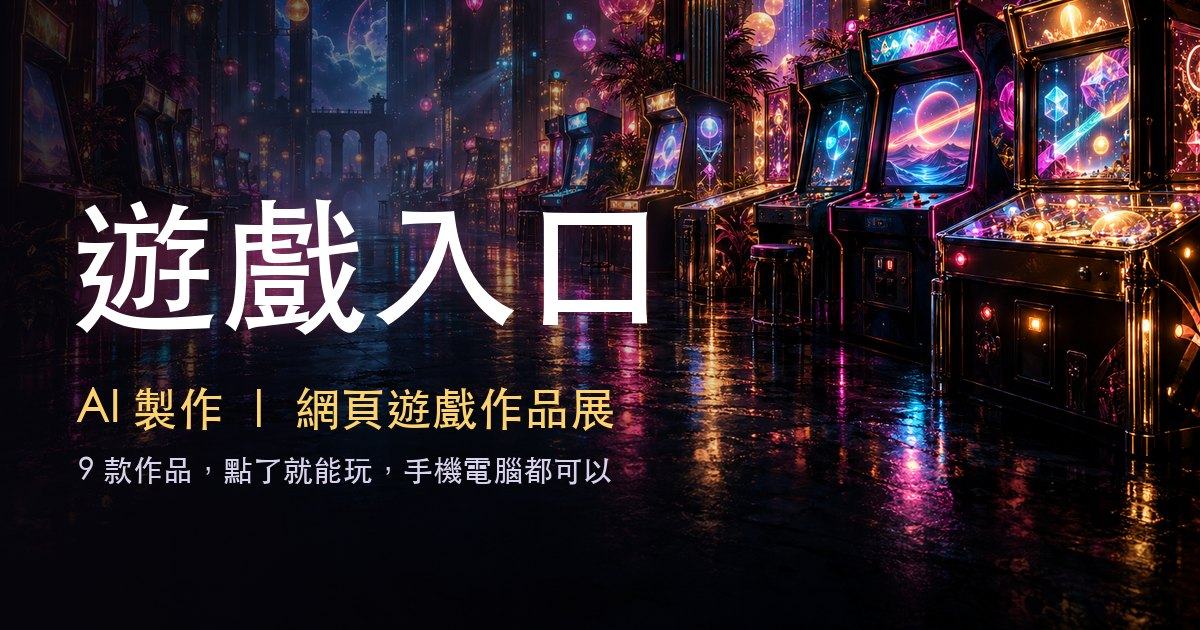
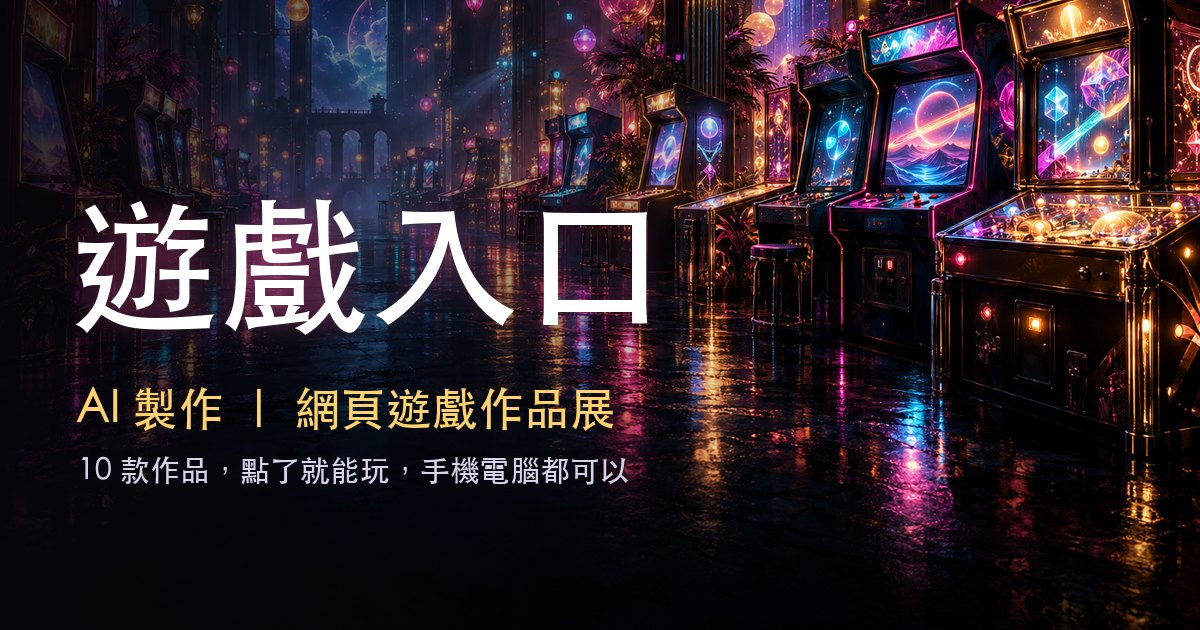
加入上班啟示錄（3D 辦公室經營）與封面

Changed region(s): [[0.0617, 0.7238, 0.5242, 0.7841]]

diff --git a/index.html b/index.html
@@ -7,7 +7,7 @@
 <meta name="description" content="跟 AI 一起做的網頁遊戲作品展：寶可夢彈珠研究所、黃泉燒肉店轉珠、紅分子亮車快打……點了就能玩，不用下載、不用登入。">
 <meta property="og:type" content="website">
 <meta property="og:title" content="遊戲入口｜AI 製作・網頁遊戲作品展">
-<meta property="og:description" content="9 款跟 AI 一起做的網頁遊戲，點了就能玩，手機電腦都可以。">
+<meta property="og:description" content="10 款跟 AI 一起做的網頁遊戲，點了就能玩，手機電腦都可以。">
 <meta property="og:image" content="https://pokemonida99.github.io/game/img/og.jpg">
 <meta property="og:url" content="https://pokemonida99.github.io/game/">
 <meta name="twitter:card" content="summary_large_image">
@@ -230,7 +230,7 @@ footer a{color:var(--dim)}footer a:hover{color:#fff}
       <p class="sub"><b>AI 製作</b>・網頁遊戲作品展</p>
       <p class="lead">這裡每一款遊戲的程式、美術、配樂和演出影片，都是跟 AI 一起做出來的。點了就能玩，不用下載、不用登入，手機電腦都可以。</p>
       <div class="stats">
-        <div class="stat"><b id="nGames">9</b><span>款作品</span></div>
+        <div class="stat"><b id="nGames">10</b><span>款作品</span></div>
         <div class="stat"><b>13</b><span>台寶可夢機台</span></div>
         <div class="stat"><b>0</b><span>秒安裝</span></div>
       </div>

diff --git a/games.js b/games.js
@@ -81,6 +81,18 @@ window.GAMES = [
     ],
   },
   {
+    id: 'apocalypse', repo: 'office-apocalypse', cover: 'apocalypse',
+    title: '上班啟示錄', en: 'OFFICE APOCALYPSE',
+    genre: '3D 經營', badge: '新作', accent: '#ffb23f', accent2: '#e86a8f',
+    platform: ['手機直式', '電腦'],
+    tagline: '新人小葵報到第一天，什麼雜事都要做：煮咖啡、印文件、補貨、接電話，把破爛茶水間一路升級成產線。',
+    how: [
+      '拖曳畫面移動，把做好的咖啡、文件背去櫃台賣，再去綠框收錢',
+      '踩金色格子升級設施、白色格子開新區域、粉紅格子請同事幫忙',
+      '每季業績達標發獎金，全年達標辦尾牙，小葵從實習生升到總監',
+    ],
+  },
+  {
     id: 'banxiu', repo: 'banxiu-game', cover: 'banxiu',
     title: '上班修仙傳', en: 'OFFICE CULTIVATION',
     genre: '放置修仙', badge: 'v2.1', accent: '#e8c56a', accent2: '#3fbf9f',
